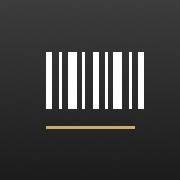
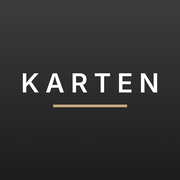
App-Symbol: Schriftzug KARTEN mit Querstrich (v2.1.1)
Claude-Session: https://claude.ai/code/session_01BTXfWGyyb1jEVY4BAroczo

Changed region(s): [[0.25, 0.2778, 0.8889, 0.6111], [0.1111, 0.3889, 0.2222, 0.5278], [0.25, 0.6944, 0.75, 0.7222]]

diff --git a/sw.js b/sw.js
@@ -1,7 +1,7 @@
 // Karten – Offline-Speicher: Seite, Codes und Symbole liegen im Gerät, die App startet auch ohne Netz.
 // Bei neuer Fassung VERSION erhöhen (sonst bleibt die alte im Zwischenspeicher).
-const VERSION = "karten-3";
-const DATEIEN = ["./", "index.html", "codes.js", "manifest.webmanifest", "symbol-180.png", "symbol-192.png", "symbol-512.png", "lib/zxing-reader.js", "lib/zxing_reader.wasm"];
+const VERSION = "karten-4";
+const DATEIEN = ["./", "index.html", "codes.js", "manifest.webmanifest", "symbol-180.png?v=2", "symbol-192.png", "symbol-512.png", "lib/zxing-reader.js", "lib/zxing_reader.wasm"];
 self.addEventListener("install", e => { e.waitUntil(caches.open(VERSION).then(c => c.addAll(DATEIEN))); self.skipWaiting(); });
 self.addEventListener("activate", e => { e.waitUntil(caches.keys().then(k => Promise.all(k.filter(n => n !== VERSION).map(n => caches.delete(n))))); self.clients.claim(); });
 // Netz zuerst (neue Fassung sofort), sonst aus dem Speicher

diff --git a/index.html b/index.html
@@ -10,7 +10,7 @@
 <meta name="apple-mobile-web-app-title" content="Karten">
 <meta name="theme-color" content="#1C1C1C">
 <meta name="color-scheme" content="dark">
-<link rel="apple-touch-icon" href="symbol-180.png">
+<link rel="apple-touch-icon" href="symbol-180.png?v=2">
 <link rel="manifest" href="manifest.webmanifest">
 <!--
   Karten – Kunden- und Mitgliedskarten als Web-App (Home-Bildschirm, ohne Netz nutzbar).

diff --git a/werkzeuge/symbol.py b/werkzeuge/symbol.py
@@ -1,0 +1,33 @@
+"""App-Symbol „Karten“ (Minimal-Stil wie die Profilbilder): Grauverlauf, KARTEN in gesperrten Versalien (Inter SemiBold, weiß),
+darunter Querstrich in Sand. Schreibt symbol-180.png, symbol-192.png, symbol-512.png ins Repository.
+Aufruf: python3 werkzeuge/symbol.py   (Schrift Inter unter /usr/share/fonts/opentype/inter/; danach VERSION in sw.js erhöhen)"""
+import os
+import numpy as np
+from PIL import Image, ImageDraw, ImageFont
+
+WURZEL = os.path.join(os.path.dirname(os.path.abspath(__file__)), "..")
+SCHRIFT = "/usr/share/fonts/opentype/inter/Inter-SemiBold.otf"
+WEISS, SAND = (255, 255, 255), (200, 170, 128)
+
+def verlauf(g, oben=0x3C, unten=0x1C, seed=11):
+    rng = np.random.default_rng(seed)
+    v = np.linspace(oben, unten, g)[:, None] * np.ones((1, g))
+    grau = np.clip(np.round(v + rng.random((g, g)) - rng.random((g, g))), 0, 255).astype(np.uint8)
+    return Image.fromarray(np.stack([grau] * 3, axis=-1), "RGB")
+
+def symbol(g, T=1024):
+    """Zeichnet groß (T px) und verkleinert – saubere Kanten."""
+    im = verlauf(T); d = ImageDraw.Draw(im)
+    font = ImageFont.truetype(SCHRIFT, 150); abstand = 34; text = "KARTEN"
+    breite = sum(d.textlength(c, font=font) for c in text) + abstand * (len(text) - 1)
+    x = (T - breite) / 2; oben, unten = font.getbbox("K")[1], font.getbbox("K")[3]
+    y = T * 0.46 - (unten - oben) / 2 - oben
+    for c in text:
+        d.text((x, y), c, font=font, fill=WEISS); x += d.textlength(c, font=font) + abstand
+    lang, dick, ys = 420, 14, T * 0.46 + (unten - oben) / 2 + 70
+    d.rectangle([(T - lang) / 2, ys, (T + lang) / 2, ys + dick], fill=SAND)
+    return im.resize((g, g), Image.LANCZOS)
+
+for g in (180, 192, 512):
+    symbol(g).save(os.path.join(WURZEL, "symbol-%d.png" % g))
+print("ok")

diff --git a/CHANGELOG.md b/CHANGELOG.md
@@ -1,5 +1,8 @@
 # Changelog
 
+## v2.1.1 – 17.11.2026
+- **App-Symbol neu:** Schriftzug KARTEN in gesperrten Versalien (weiß) mit Querstrich in Sand auf Grauverlauf – wie die Profilbilder, ohne Strichcode. Generator `werkzeuge/symbol.py`.
+
 ## v2.1.0 – 17.11.2026
 - **Neu: Karte aus Foto.** Knopf „Aus Foto lesen“ im Formular und Menüpunkt „+ Karte aus Foto“: Foto aufnehmen oder wählen → Code und Art automatisch (EAN-13, UPC-A → EAN-13, Code 128, QR; andere als Nummer mit Hinweis), Farbe aus der Bildmitte vorgeschlagen (häufigster kräftiger Farbton, sonst Schwarz/Grau). Name trägt man selbst ein.
 - Lese-Bibliothek zxing-wasm 3.1.6 (MIT) lokal in `lib/` (ca. 1 MB), lädt erst beim ersten Foto, im Offline-Speicher enthalten (`sw.js` karten-3). Kein Online-Dienst, Foto wird nicht gespeichert.

diff --git a/README.md b/README.md
@@ -17,7 +17,7 @@ Kunden- und Mitgliedskarten als Web-App für den Home-Bildschirm (iPhone, ohne N
 | `codes.js` | Code-Erzeuger EAN-13, Code 128, QR |
 | `lib/` | zxing-wasm 3.1.6 (MIT) zum Lesen von Codes aus Fotos – lädt erst beim ersten Foto (siehe `lib/LIESMICH.txt`) |
 | `sw.js` | Offline-Speicher – bei jeder neuen Fassung `VERSION` erhöhen |
-| `manifest.webmanifest`, `symbol-*.png` | Name und Symbol für den Home-Bildschirm |
+| `manifest.webmanifest`, `symbol-*.png` | Name und Symbol für den Home-Bildschirm (Symbol erzeugt `werkzeuge/symbol.py`) |
 | `tests/` | `browser.js` (Playwright, iPhone 14), `codes.js` + `codes.py` (zxing liest die Codes zurück), `fotos.py` + `foto.js` (Foto-Lesen) |
 
 ## Veröffentlichen (GitHub Pages)

diff --git a/CLAUDE.md b/CLAUDE.md
@@ -27,7 +27,7 @@ Web-App „Karten“ von Matthias Dilitz: Kunden- und Mitgliedskarten (EAN-13, C
 | `codes.js` | Code-Erzeuger EAN-13, Code 128, QR |
 | `lib/` | zxing-wasm (Lesen aus Fotos), unverändert aus npm – siehe `lib/LIESMICH.txt` |
 | `sw.js` | Offline-Speicher – **bei jeder Änderung `VERSION` erhöhen** |
-| `manifest.webmanifest`, `symbol-*.png` | Name und Symbol für den Home-Bildschirm |
+| `manifest.webmanifest`, `symbol-*.png` | Name und Symbol für den Home-Bildschirm – Symbol: KARTEN + Querstrich Sand, erzeugt `werkzeuge/symbol.py` |
 | `tests/` | `browser.js` (Playwright, iPhone 14), `codes.js` + `codes.py` (zxing liest Codes zurück) |
 
 ## Prüfen vor Auslieferung
